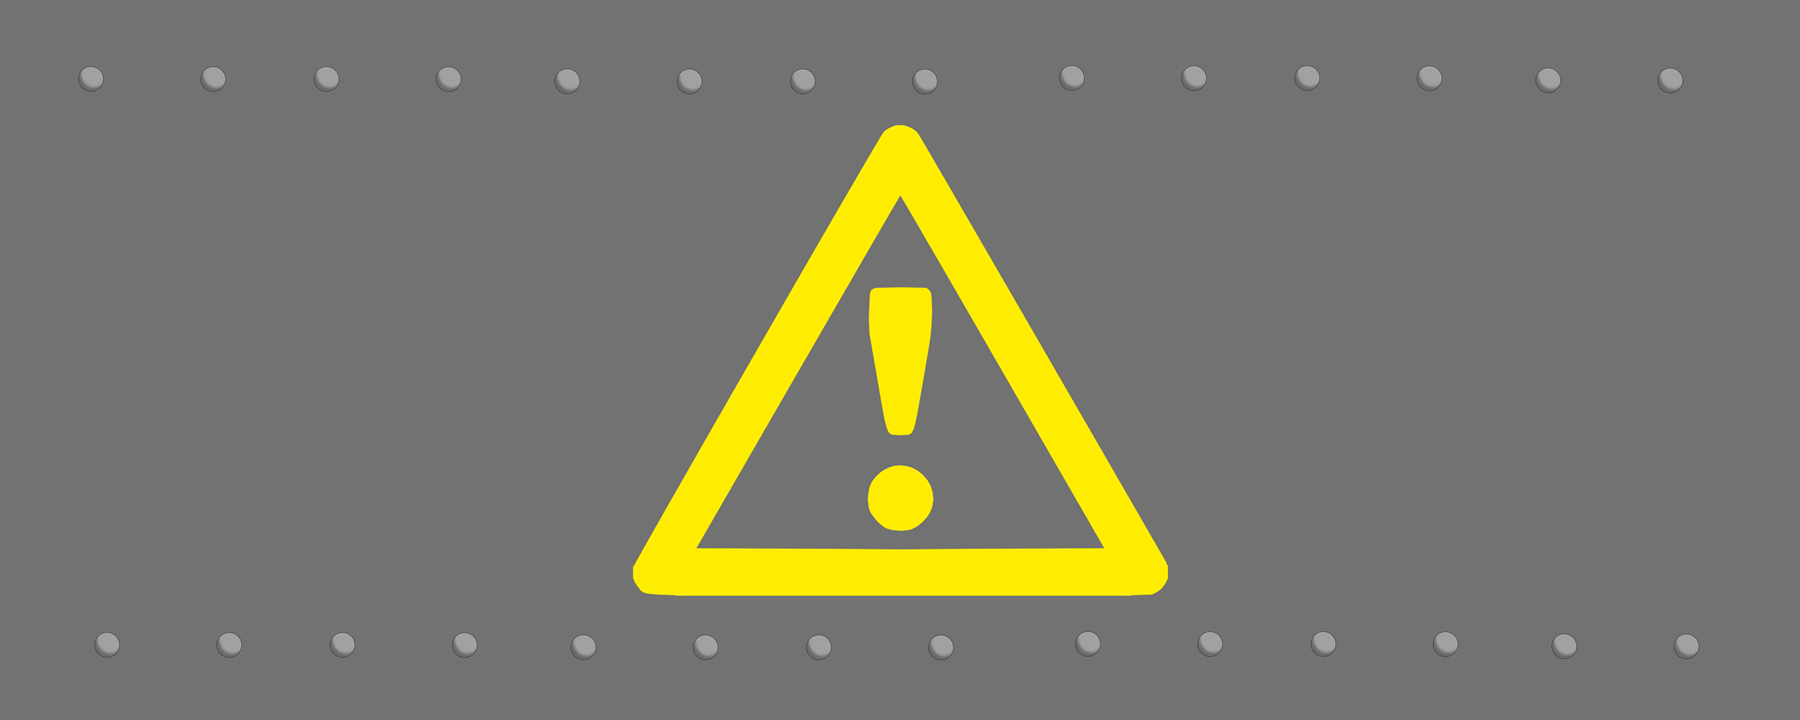
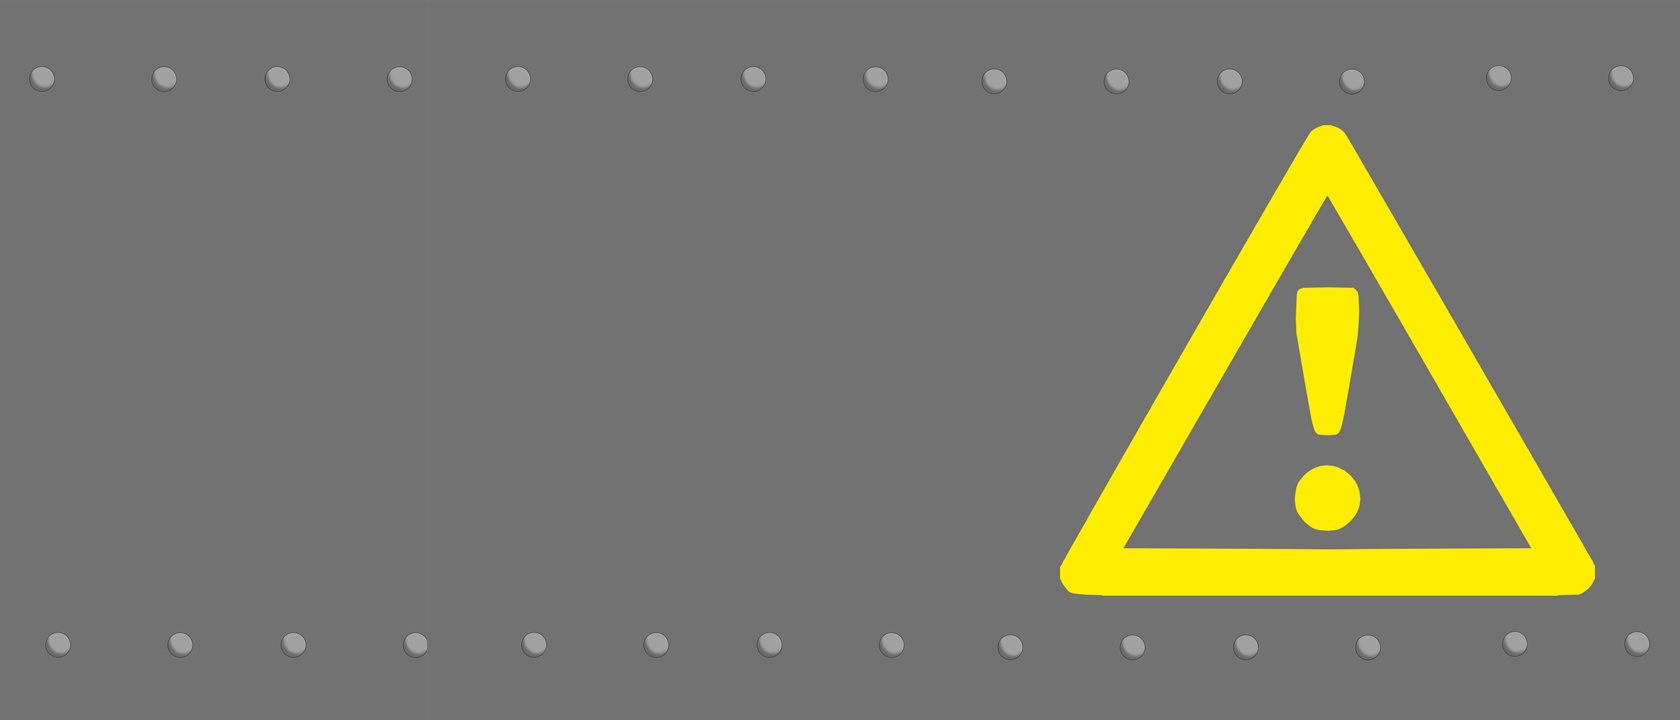
Finomhangolás az ajtón és az animációkon

diff --git a/core/src/hu/cehessteg/vizeromu/Stage/MenuStage.java b/core/src/hu/cehessteg/vizeromu/Stage/MenuStage.java
@@ -13,6 +13,7 @@ import hu.cehessteg.vizeromu.GlobalClasses.Styles;
 import hu.cehessteg.vizeromu.ParentClasses.Game.MyGame;
 import hu.cehessteg.vizeromu.ParentClasses.Scene2D.MyStage;
 import hu.cehessteg.vizeromu.ParentClasses.UI.MyButton;
+import hu.cehessteg.vizeromu.ParentClasses.UI.MyLabel;
 import hu.cehessteg.vizeromu.Screen.GameScreen;
 
 public class MenuStage extends MyStage {
@@ -23,6 +24,7 @@ public class MenuStage extends MyStage {
     MyButton exit;
     MyButton info;
     MyButton options;
+    MyLabel title;
 
     boolean drawGame = false;
     boolean drawInfo = false;
@@ -46,7 +48,10 @@ public class MenuStage extends MyStage {
         felsoSign = new CautionSign((byte)2,getViewport());
         alsoSign = new CautionSign((byte)1,getViewport());
         ajto = new Ajto(getViewport());
-        start = new MyButton("Start", Styles.getTextButtonStyle());
+        title = new MyLabel("Vízerőmű",Styles.getCalibriLabelStyle());
+        title.setFontScale(1.75f);
+        title.setAlignment(0);
+        start = new MyButton("A játék indítása", Styles.getTextButtonStyle());
         exit = new MyButton("Kilépés", Styles.getTextButtonStyle());
         info = new MyButton("A játékról", Styles.getTextButtonStyle());
         options = new MyButton("Beállítások", Styles.getTextButtonStyle());
@@ -63,7 +68,8 @@ public class MenuStage extends MyStage {
 
     void setPositions()
     {
-        start.setPosition(getViewport().getWorldWidth()*0.18f,getViewport().getWorldHeight()*0.66f);
+        title.setPosition(getViewport().getWorldWidth()*0.11f,getViewport().getWorldHeight()*0.73f);
+        start.setPosition(getViewport().getWorldWidth()*0.065f,title.getY()-100);
         info.setPosition(start.getX(),start.getY()-100);
         options.setPosition(start.getX(),info.getY()-100);
         exit.setPosition(start.getX(),options.getY()-100);
@@ -143,6 +149,7 @@ public class MenuStage extends MyStage {
         addActor(options);
         addActor(exit);
         addActor(info);
+        addActor(title);
 
         ajto.setZIndex(0);
         felsoSign.setZIndex(1);
@@ -152,6 +159,7 @@ public class MenuStage extends MyStage {
         exit.setZIndex(2);
         info.setZIndex(2);
 
+        title.setColor(1,1,1,0f);
         start.setColor(1,1,1,0f);
         options.setColor(1,1,1,0f);
         exit.setColor(1,1,1,0f);
@@ -182,6 +190,7 @@ public class MenuStage extends MyStage {
             felsoSign.setMoveUp(false);
             alsoSign.setMoveUp(false);
             alpha = 0;
+            title.setColor(1,1,1,alpha);
             start.setColor(1,1,1,alpha);
             options.setColor(1,1,1,alpha);
             exit.setColor(1,1,1,alpha);
@@ -191,11 +200,12 @@ public class MenuStage extends MyStage {
             setMehetVissza(false);
         }
 
-        if(ajto.getX() > -50)
+        if(ajto.getX() > getViewport().getWorldWidth()-ajto.getWidth()-50)
         {
             if(alpha < 0.99) alpha += 0.02;
             else alpha = 1;
 
+            title.setColor(1,1,1,alpha);
             start.setColor(1,1,1,alpha);
             options.setColor(1,1,1,alpha);
             exit.setColor(1,1,1,alpha);
@@ -206,7 +216,7 @@ public class MenuStage extends MyStage {
         {
             for (Actor actor : getActors())
             {
-                if(!(actor instanceof CautionSign) && !(actor instanceof Ajto)) if(actor.getX()>-actor.getWidth()-1)actor.setX(actor.getX()-20);
+                if(!(actor instanceof CautionSign) && !(actor instanceof Ajto)) if(actor.getX()>-actor.getWidth()*2) actor.setX(actor.getX()-20);
             }
         }
 

diff --git a/core/src/hu/cehessteg/vizeromu/Actor/CautionSign.java b/core/src/hu/cehessteg/vizeromu/Actor/CautionSign.java
@@ -26,7 +26,7 @@ public class CautionSign extends OneSpriteStaticActor {
         if(move) {
             if (moveDown) {
                 if(id == 1) {
-                    if (getY() < 0) setY(getY() + 5);
+                    if (getY() < 0) setY(getY() + 2);
                     else {
                         setY(0);
                         move = false;
@@ -35,7 +35,7 @@ public class CautionSign extends OneSpriteStaticActor {
 
                 else if(id == 2) {
                     if (getY() > getStage().getViewport().getWorldHeight() - this.getHeight())
-                        setY(getY() - 5);
+                        setY(getY() - 2);
                     else {
                         setY(getStage().getViewport().getWorldHeight() - this.getHeight());
                         move = false;
@@ -44,7 +44,7 @@ public class CautionSign extends OneSpriteStaticActor {
             }
             if (moveUp) {
                 if(id == 1) {
-                    if (getY() > -this.getHeight()) setY(getY() - 1);
+                    if (getY() > -this.getHeight()) setY(getY() - 2);
                     else {
                         setY(-this.getHeight());
                         move = false;
@@ -53,7 +53,7 @@ public class CautionSign extends OneSpriteStaticActor {
 
                 else if(id == 2) {
                     if (getY() < getStage().getViewport().getWorldHeight())
-                        setY(getY() + 1);
+                        setY(getY() + 2);
                     else {
                         setY(getStage().getViewport().getWorldHeight());
                         move = false;

diff --git a/core/src/hu/cehessteg/vizeromu/Actor/Ajto.java b/core/src/hu/cehessteg/vizeromu/Actor/Ajto.java
@@ -9,12 +9,14 @@ public class Ajto extends OneSpriteStaticActor {
     private boolean move;
     private boolean moveIn;
     private boolean moveOut;
+    private Viewport viewport;
 
     public Ajto(Viewport viewport) {
         super(Assets.manager.get(Assets.AJTO));
-        setPosition(-getWidth()*2.5f,0);
+        setPosition(-getWidth()*2,0);
         setDebug(false);
         if(viewport.getWorldWidth() > getWidth()) setWidth(viewport.getWorldWidth());
+        this.viewport = viewport;
     }
 
     public void setMove(boolean move)
@@ -28,15 +30,16 @@ public class Ajto extends OneSpriteStaticActor {
         if(move)
         {
             if(moveIn) {
-                if (getX() < -39) setX(getX() + 40);
-                else setX(0);
+                if (getX() < viewport.getWorldWidth()-this.getWidth()-20) setX(getX() + 40);
+                else setX(viewport.getWorldWidth()-this.getWidth()+20);
             }
             if(moveOut)
             {
-                if (getX() > -getWidth()) setX(getX() - 20);
-                else setX(-getWidth());
+                if (getX() > -getWidth()*1.25) setX(getX() - 20);
+                else setX(-getWidth()*1.25f);
             }
         }
+        System.out.println(getX());
     }
 
     public boolean isMoveIn() {

diff --git a/core/src/hu/cehessteg/vizeromu/GlobalClasses/Matek.java b/core/src/hu/cehessteg/vizeromu/GlobalClasses/Matek.java
@@ -100,7 +100,7 @@ public class Matek {
         if(time > coinTime+(36*5)) {
             coins += openek;
             coinTime = time;
-        }//5 másodpercenként annyi coint kap, ahány csap megvan nyitva
+        }//5 másodpercenként annyi coint kap, ahány csap megvan nyitva, csak ideiglenesen van bent, hogy működjön a pénzszámláló
         if(patakVizmennyiseg < 225000)patakVizmennyiseg += kiviz * openek;
         if(patakVizmennyiseg >= beviz) patakVizmennyiseg -= beviz;//Mondjuk ami patakból kifolyik víz, azt vezetjük vissza a gáthoz
         time += delta;

diff --git a/core/src/hu/cehessteg/vizeromu/Stage/GameStage.java b/core/src/hu/cehessteg/vizeromu/Stage/GameStage.java
@@ -154,7 +154,7 @@ public class GameStage extends MyStage {
 
     void setAlphaForGatListeners()
     {
-        if(alpha < 0.985) alpha += 0.015;
+        if(alpha < 0.985) alpha += 0.0125;
         else alpha = 1;
         elsoNyilas.setColor(1,1,1,alpha);
         masodikNyilas.setColor(1,1,1,alpha);

diff --git a/core/src/hu/cehessteg/vizeromu/Stage/HudStage.java b/core/src/hu/cehessteg/vizeromu/Stage/HudStage.java
@@ -36,7 +36,7 @@ public class HudStage extends MyStage {
     void addActors()
     {
         addActor(pause);
-        addActor(coins);
+        //addActor(coins);
     }
 
     @Override
